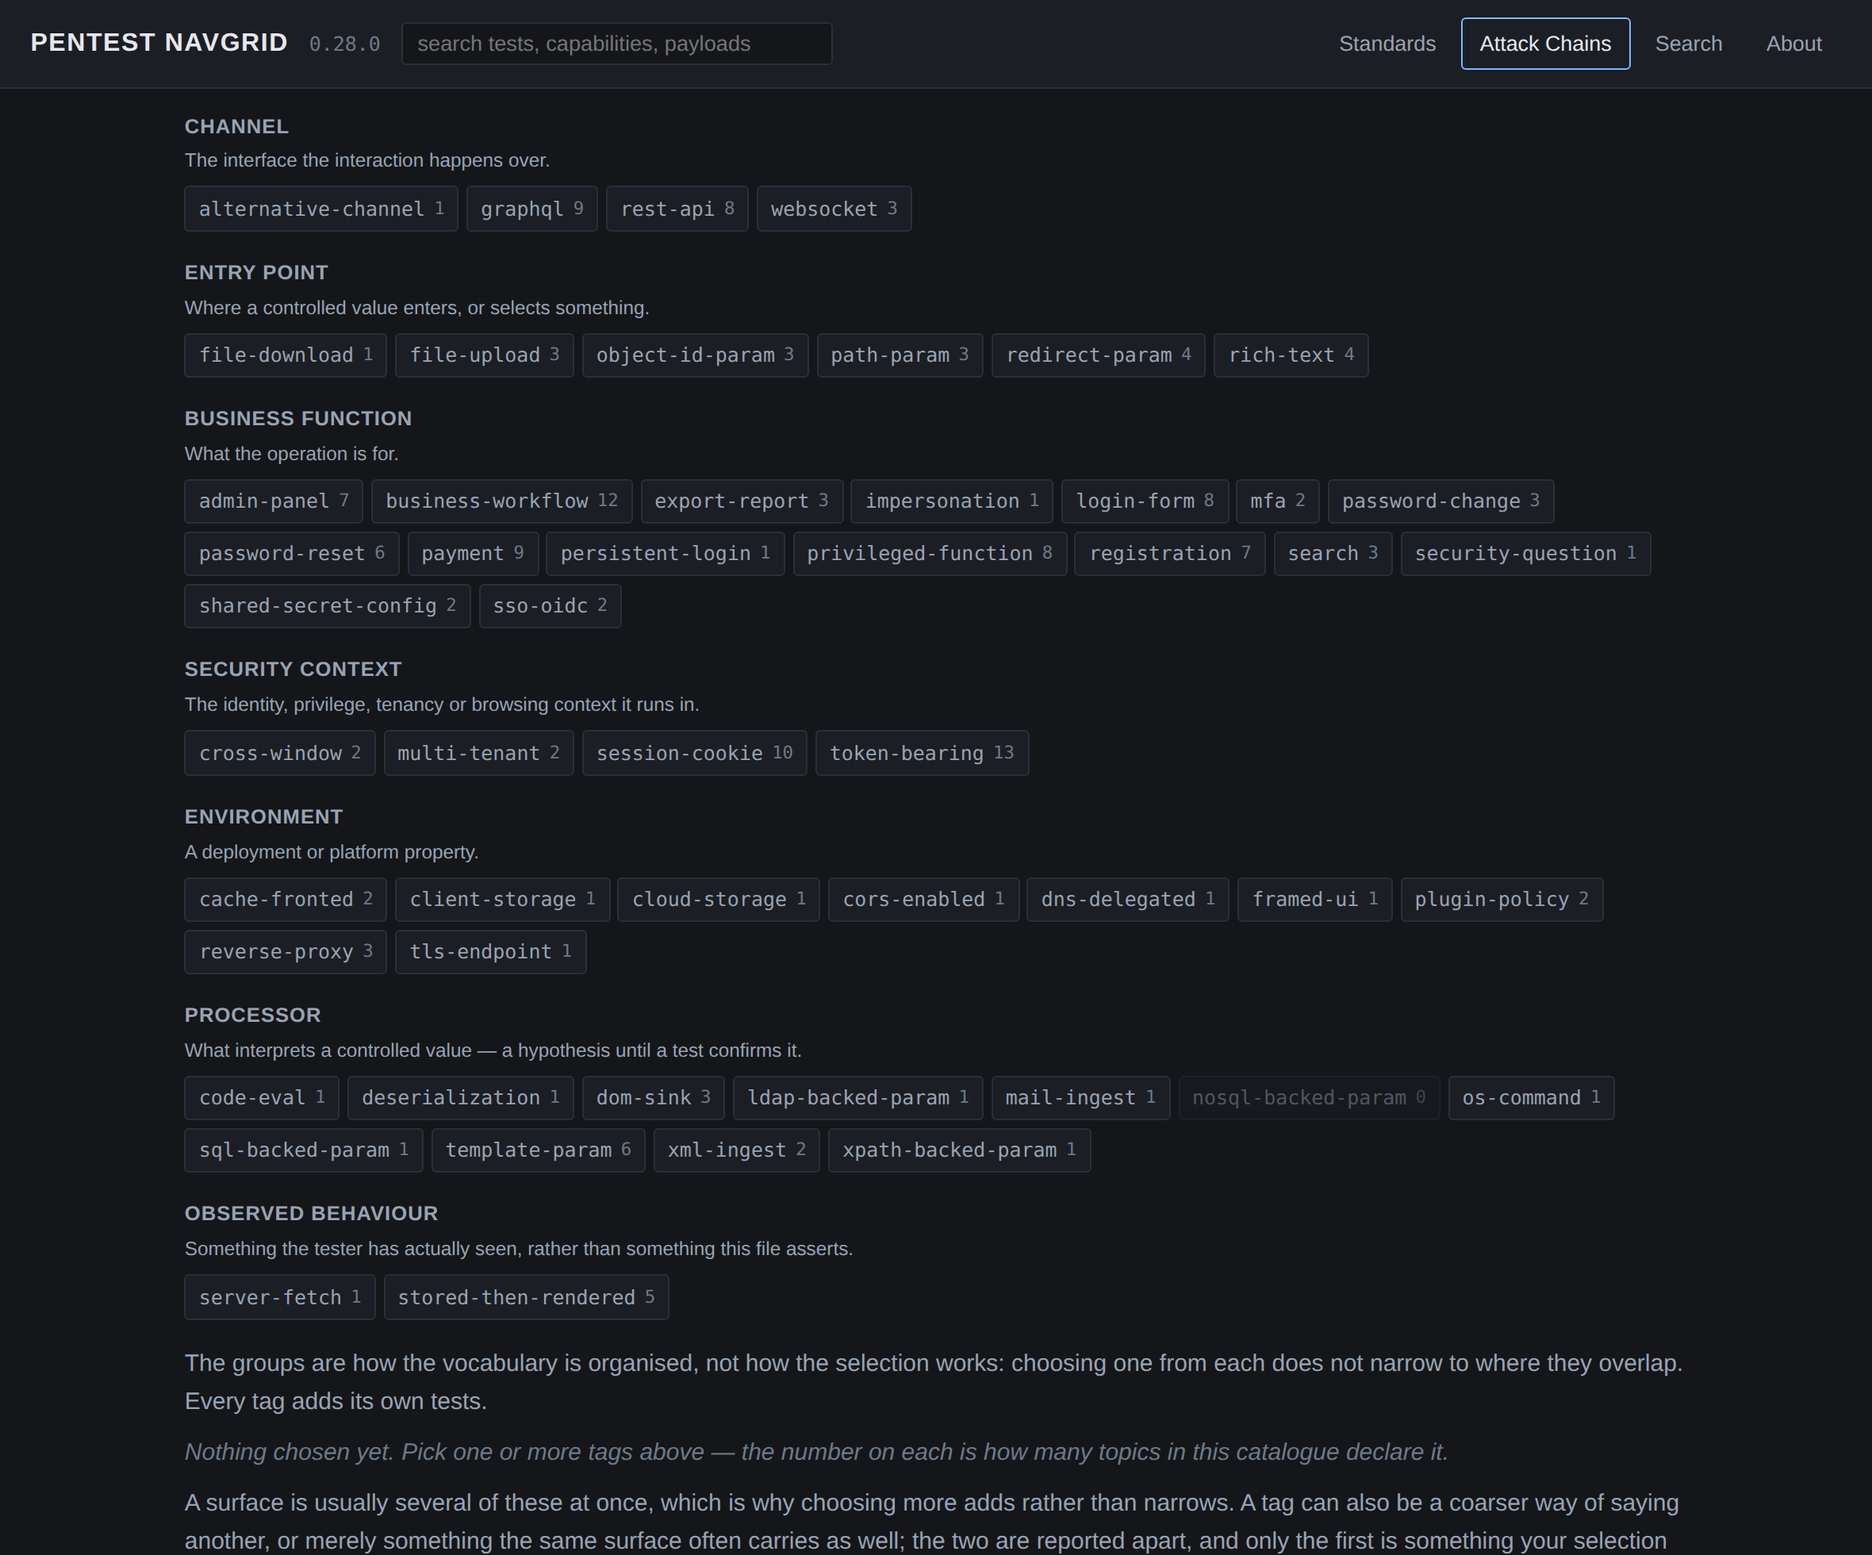
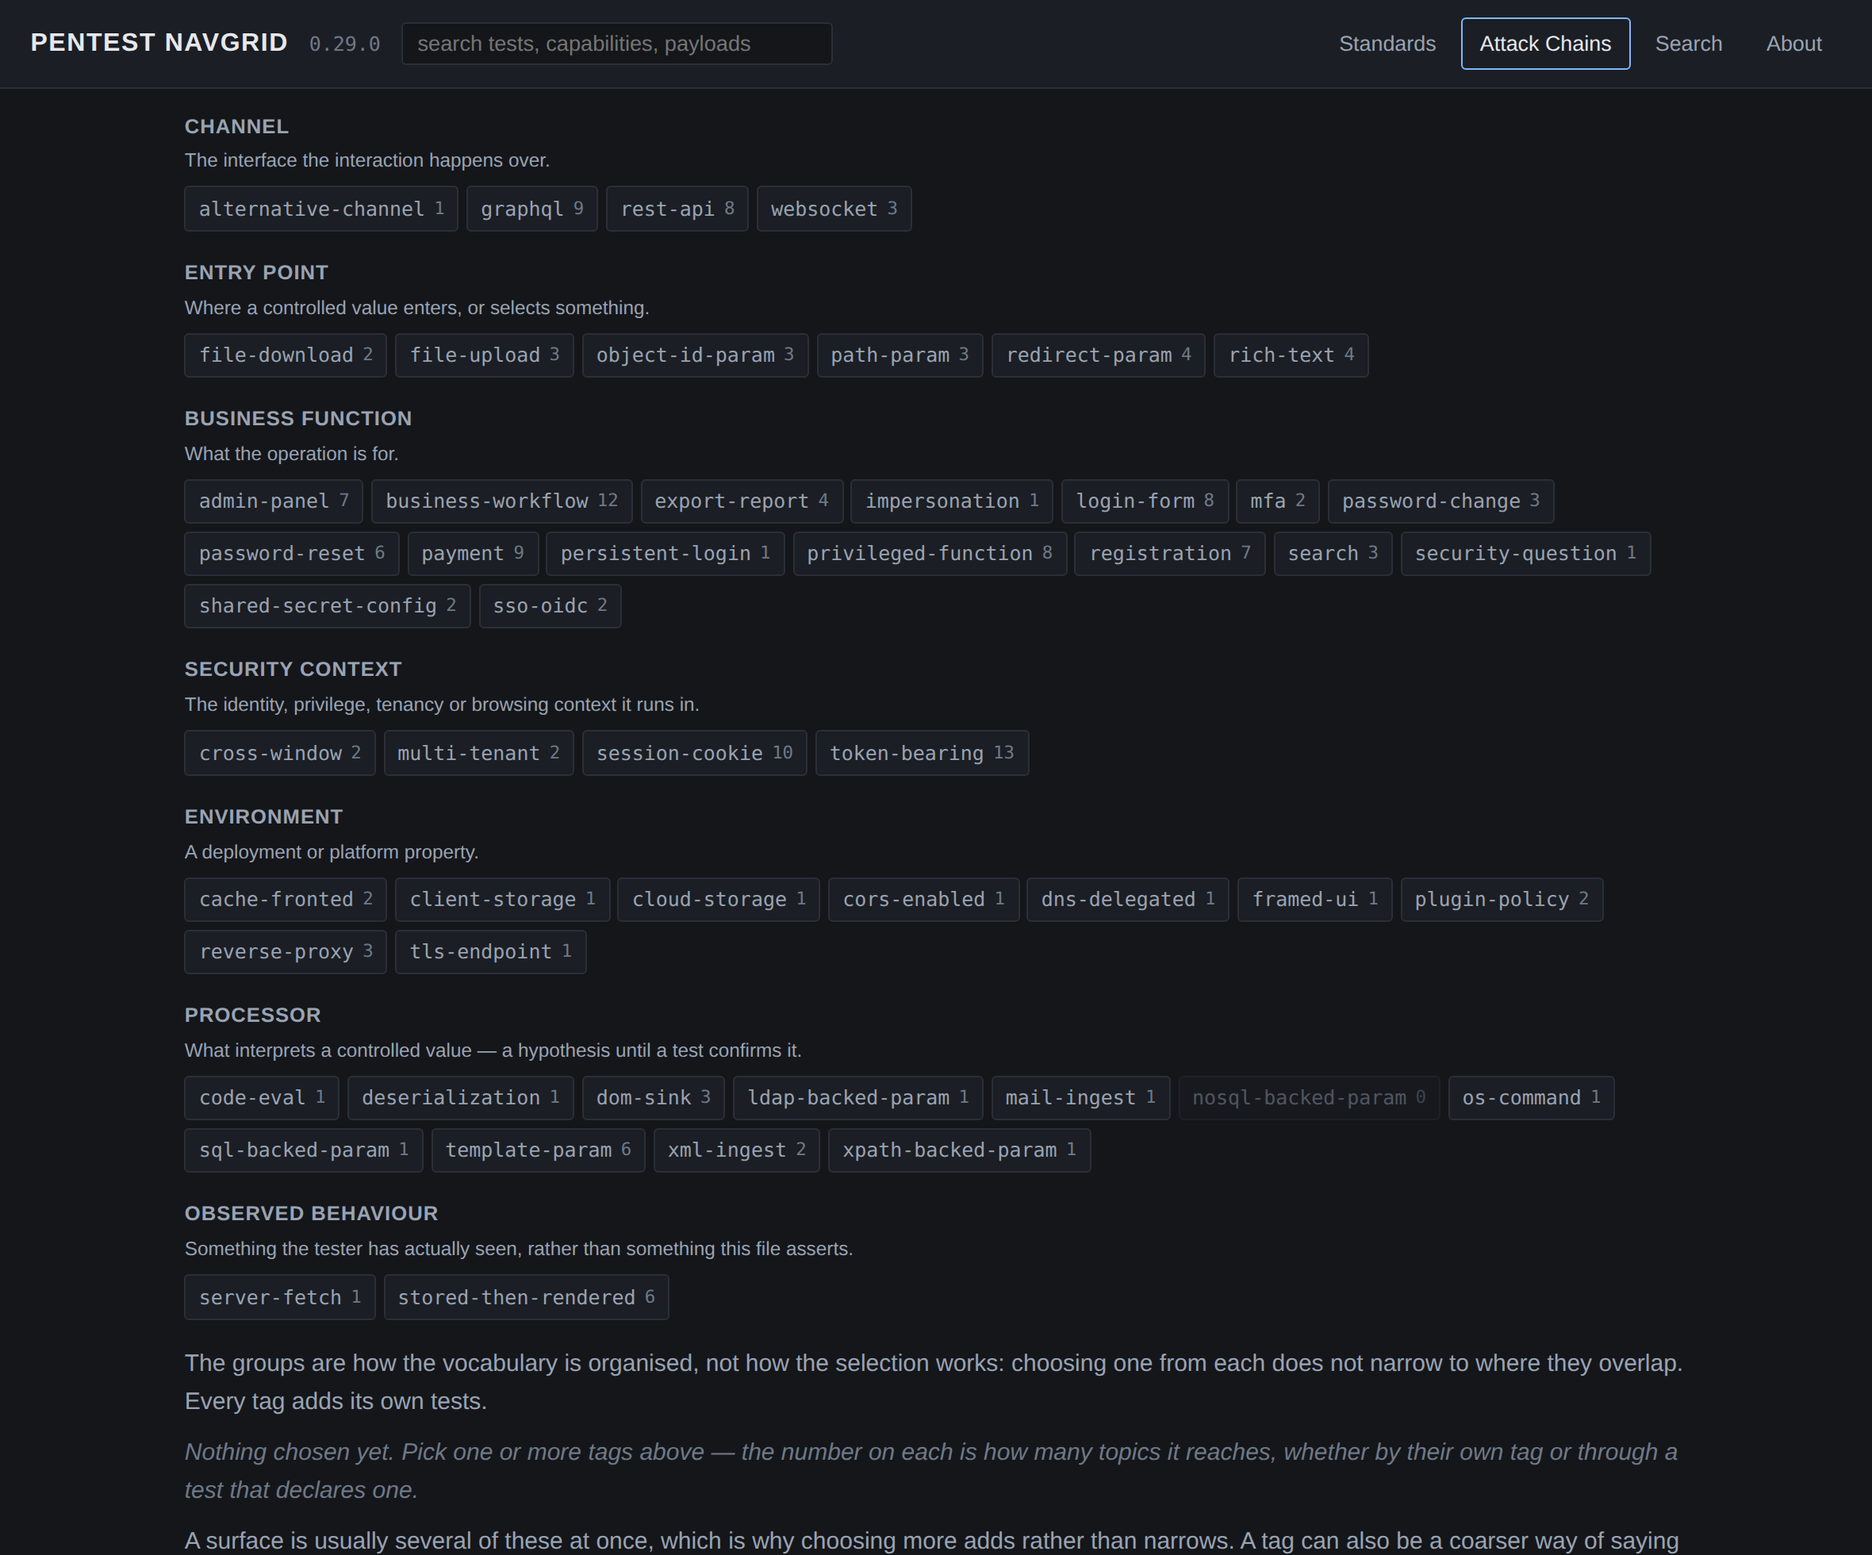
fix(discovery): say which route reached a topic, and refuse a clause the page ignores
Three labels went on describing the model this change replaced.

A heading read "N topics declare a tag you chose" over topics that
declare nothing of the sort: `PTN-CRY-02` is about assets in transit and
carries no `export-report`, and it is in that result because one test in
it is about a bulk export. Six topic-and-tag pairs are reached that way
today. The heading now says the selection reaches them, and a card whose
subject names none of the tags says so and names the route instead of
saying "the context is" about a surface only one of its tests claims.

The selector's count became a union in this same change and the sentence
beside it did not, so it went on calling a union a count of declarations
-- which `export-report`, `file-download` and `stored-then-rendered`
contradict on the page.

Two clause forms are now refused rather than silently ignored. The
schema's surface clause takes four forms because a topic uses two of
them; a unit clause replaces its topic's and is read as `any_of`, so
`all_of` and `none_of` would be accepted in the file and ignored where
they are used. And a clause under a topic whose own is `always` is
refused outright: a subject applying to every context has no surface for
a test to differ from, and the topic would be listed both as a specific
result and among the universal ones.

The labels were the last thing to catch up with the mechanism rather than
the first, for the third time in three changes. The tests added here
[…]

Changed region(s): [[0.0928, 0.9337, 0.897, 1.0]]

diff --git a/pentest_navgrid/artefact/app.js b/pentest_navgrid/artefact/app.js
@@ -1080,11 +1080,20 @@
       });
       if (!matched.length) return;
       var tags = Object.keys(via).sort();
+      /* Whether the topic's own clause is what reached it. A topic can now be
+         here because one of its tests declares a tag the subject does not --
+         `PTN-CRY-02` is about assets in transit and one test in it is about a
+         bulk export -- and a heading saying the topic declared the tag would be
+         stating something its file does not. */
+      var own_clause = (topic.surfaces || {}).any_of || [];
+      var byTopic = false;
+      own_clause.forEach(function (tag) { if (own(how, tag)) byTopic = true; });
       var weak = true;
       tags.forEach(function (tag) { if (how[tag] !== "often") weak = false; });
       rows[tid] = {
         topic: tid,
         via: tags.map(function (tag) { return { tag: tag, how: how[tag] }; }),
+        byTopic: byTopic,
         often: weak,
         matched: matched,
         broad: broad
@@ -2241,9 +2250,16 @@
       var found = chips(kind);
       return found ? '<div class="why">' + lead + " " + found + "</div>" : "";
     };
-    var why = line("chosen", "Matched because the context is:") +
-      line("always", "And always also is:") +
-      line("often", "Often carried by such a surface, and not implied by your selection:");
+    var why = row.byTopic
+      ? line("chosen", "Matched because the context is:") +
+        line("always", "And always also is:") +
+        line("often", "Often carried by such a surface, and not implied by your selection:")
+      /* Nothing on this topic names the tag; a test inside it does. Saying
+         "the context is" here would attribute to the subject a surface only
+         one of its tests claims. */
+      : '<div class="why">This topic declares none of these. Reached because a ' +
+        "test in it declares: " + chips("chosen") + chips("always") + chips("often") +
+        "</div>";
 
     var unitRow = function (uid, precise) {
       var unit = get(D.units, uid);
@@ -2341,7 +2357,8 @@
     if (!chosen.length) {
       return head +
         '<p class="empty">Nothing chosen yet. Pick one or more tags above — the number ' +
-        "on each is how many topics in this catalogue declare it.</p>" +
+        "on each is how many topics it reaches, whether by their own tag or " +
+        "through a test that declares one.</p>" +
         '<p class="muted">A surface is usually several of these at once, which is why ' +
         "choosing more adds rather than narrows. A tag can also be a coarser way of " +
         "saying another, or merely something the same surface often carries as well; " +
@@ -2388,9 +2405,11 @@
       : "";
 
     var body = reached +
+      /* "declare a tag you chose" was true while a tag could only be carried
+         by a topic. A topic reached because one of its tests declares one has
+         declared nothing, and the heading was saying it had. */
       "<h3>" + strong.length + " topic" + (strong.length === 1 ? "" : "s") +
-      (strong.length === 1 ? " declares" : " declare") +
-      " a tag you chose <span class=\"muted\">— " + counted(strong) +
+      " your selection reaches <span class=\"muted\">— " + counted(strong) +
       " tests</span></h3>";
 
     body += strong.length

diff --git a/tests/test_artefact_ui.py b/tests/test_artefact_ui.py
@@ -1703,6 +1703,34 @@ class ChoosingAContextSelectsTestsAndNothingElse(unittest.TestCase):
         """)
         self.assertEqual(out, [])
 
+    def test_a_topic_says_whether_its_own_tag_or_a_test_in_it_reached_it(self):
+        """A topic can be here because one of its tests declares a tag the
+        subject does not. Six pairs do that today, and a card telling the reader
+        the topic matched would be attributing to a subject a surface only one
+        of its tests claims."""
+        out = self.run_js("""
+            const out = [];
+            D.surfaces.forEach(function (s) {
+              H.contextTopics(D, [s.tag]).topics.forEach(function (r) {
+                if (!r.byTopic) out.push([s.tag, r.topic]);
+              });
+            });
+            return out;
+        """)
+        self.assertIn(["export-report", "PTN-CRY-02"], out)
+        # And the flag is the topic's own clause, not a guess from the units.
+        for tag, tid in out:
+            with self.subTest(tag=tag, topic=tid):
+                self.assertNotIn(tag, self.data["topics"][tid]["surfaces"]["any_of"])
+
+    def test_a_topic_whose_own_tag_matched_says_so(self):
+        out = self.run_js("""
+            return H.contextTopics(D, ["multi-tenant"]).topics.map(function (r) {
+              return [r.topic, r.byTopic];
+            });
+        """)
+        self.assertIn(["PTN-ACL-02", True], out)
+
     def test_a_topic_is_listed_once_even_when_two_tags_reach_it(self):
         out = self.run_js("""
             const seen = {}, dup = [];
@@ -2679,6 +2707,41 @@ class TheBuiltFileWorksInABrowser(unittest.TestCase):
         self.assertEqual(bad, [])
         # A selector that stopped matching would make this pass by reading none.
         self.assertGreater(read, 20, "no reason lines were examined at all")
+
+    def test_no_label_says_a_topic_declared_a_tag_it_does_not(self):
+        """The wording this round removed, swept over every tag rather than the
+        one that showed it. `export-report` reaches `PTN-CRY-02` because a test
+        in it is about a bulk export; the subject is about assets in transit and
+        declares no such tag, and the page used to head that result "topics
+        declare a tag you chose"."""
+        checked = 0
+        for surface in self.data["surfaces"]:
+            if not surface["units"]:
+                continue
+            text = self.text("#/chains/context/" + surface["tag"]).lower()
+            checked += 1
+            with self.subTest(tag=surface["tag"]):
+                self.assertNotIn("declare a tag you chose", text)
+                self.assertNotIn("declares a tag you chose", text)
+                self.assertIn("your selection reaches", text)
+        self.assertGreater(checked, 5, "no tag with a unit-level declaration was read")
+
+    def test_a_card_reached_only_through_a_test_says_which_route(self):
+        page = self.open("#/chains/context/export-report")
+        card = page.locator('.card:has-text("Sensitive data over unprotected transport")').first
+        text = " ".join(card.inner_text().split())
+        self.assertIn("This topic declares none of these", text)
+        self.assertIn("Reached because a test in it declares", text)
+        self.assertNotIn("Matched because the context is", text)
+
+    def test_the_selector_no_longer_calls_its_count_a_declaration(self):
+        """The count became a union in this same change and the sentence beside
+        it did not: three tags show a number larger than the topics declaring
+        them."""
+        text = self.text("#/chains/context")
+        self.assertNotIn("how many topics in this catalogue declare it", text)
+        self.assertShows(text, "how many topics it reaches")
+        self.assertShows(text, "through a test that declares one")
 
     def test_an_association_is_never_printed_as_something_that_follows(self):
         """The sentence this change exists to remove. It said an edge was "true

diff --git a/tests/test_vocabularies_and_standards.py b/tests/test_vocabularies_and_standards.py
@@ -7,7 +7,7 @@ later as many failures with no obvious common cause.
 import unittest
 
 from pentest_navgrid.validate import validate
-from tests.support import messages
+from tests.support import Sandbox, messages
 from tests.test_identifiers_and_axes import SandboxCase
 
 
@@ -291,6 +291,49 @@ class AParentClaimsMoreThanAnAssociation(SandboxCase):
             (s["tag"], t) for s in surfaces for t in (s.get("parents") or [])
         }
         self.assertEqual(parents, {("graphql", "rest-api")})
+
+
+class AUnitSurfaceMustBeAFormThePageReads(SandboxCase):
+    """The schema's surface clause takes four forms because a topic uses two of
+    them. A unit clause replaces its topic's and the page reads it as `any_of`,
+    so the other forms would be accepted in the file and ignored where they are
+    used -- a declaration that silently does nothing, which is the failure the
+    mapping exists to remove, moved into the mapping itself.
+    """
+
+    def test_a_form_the_page_does_not_read_is_rejected(self):
+        for form in ("all_of", "none_of"):
+            with self.subTest(form=form):
+                box = Sandbox()
+                self.addCleanup(box.close)
+                def narrow(data, form=form):
+                    data["surfaces"] = {form: ["file-upload"]}
+                box.edit("knowledge/res/PTN-RES-02-PROBE.unit.yaml", narrow)
+                problems = validate(box.root)
+                self.assertIn(f"surfaces.{form} on a unit", messages(problems))
+
+    def test_a_surface_under_a_universal_topic_is_rejected(self):
+        """A subject that applies to every context has no surface for a test to
+        differ from, and the build would list it both as a specific result and
+        among the universal ones."""
+        def declare(data):
+            data["surfaces"] = {"any_of": ["tls-endpoint"]}
+        self.box.edit("knowledge/cfg/PTN-CFG-01-MAP.unit.yaml", declare)
+        self.assertRejected("which applies to every context")
+
+    def test_no_unit_in_the_catalogue_sits_under_a_universal_topic(self):
+        """Asserted of the catalogue, not only of the gate."""
+        universal = {
+            d["id"] for d in
+            [self.box.read(str(p.relative_to(self.box.root)))
+             for p in self.box.root.glob("knowledge/*/*.topic.yaml")]
+            if (d.get("surfaces") or {}).get("always")
+        }
+        for path in self.box.root.glob("knowledge/*/*.unit.yaml"):
+            unit = self.box.read(str(path.relative_to(self.box.root)))
+            if unit.get("surfaces"):
+                with self.subTest(unit=unit["id"]):
+                    self.assertNotIn(unit["topic"], universal)
 
 
 class SearchAliasesMustEarnTheirPlace(SandboxCase):

diff --git a/pentest_navgrid/validate.py b/pentest_navgrid/validate.py
@@ -632,10 +632,8 @@ def _check_unit_surfaces(
         if topic is None:
             continue  # already reported as a unit naming an unknown topic
         clause = topic.data.get("surfaces") or {}
-        if clause.get("always"):
-            declared = None
-        else:
-            declared = set(clause.get("any_of") or [])
+        universal = bool(clause.get("always"))
+        declared = None if universal else set(clause.get("any_of") or [])
 
         carried: Set[str] = set()
         with_clause = 0
@@ -649,6 +647,27 @@ def _check_unit_surfaces(
                     doc.rel,
                     "surfaces.always on a unit -- whether a subject applies "
                     "regardless of the surface is decided once, by its topic",
+                )
+                continue
+            # The page reads one clause form, so one is what may be written. A
+            # form the schema accepts and the page ignores is a declaration that
+            # silently does nothing -- the unit would inherit its topic while
+            # its file says otherwise, which is the failure this whole mapping
+            # exists to remove, moved into the mapping itself.
+            for form in sorted(set(own) - {"any_of"}):
+                problems.add(
+                    doc.rel,
+                    f"surfaces.{form} on a unit -- a unit clause replaces its "
+                    f"topic's and is read as any_of; another form would be "
+                    f"accepted here and ignored where it is used",
+                )
+            if universal:
+                problems.add(
+                    doc.rel,
+                    f"declares a surface under {tid}, which applies to every "
+                    f"context -- a subject with no surface has none for a unit "
+                    f"to differ from, and the topic would be listed both as a "
+                    f"specific result and among the universal ones",
                 )
                 continue
             mine = set(own.get("any_of") or [])

diff --git a/docs/ROADMAP.md b/docs/ROADMAP.md
@@ -393,6 +393,16 @@ than from the topics down -- asked from the topic's clause alone, the mapping
 would have been written, validated, and unreachable, which is the failure this
 release is about repeated one level up.
 
+It also made three labels false, and the labels were the last thing to catch up
+with the mechanism rather than the first. A heading read "N topics declare a
+tag you chose" over topics that declare nothing of the sort; a card said "the
+context is" about a surface only one of the topic's tests claims; and the
+selector's per-tag count became a union in this same change while the sentence
+beside it went on calling it a count of declarations, which three tags now
+contradict on the page. Six topic-and-tag pairs are reached this way today. The
+heading says what it means, the card says which route reached it, and a test
+sweeps every tag rather than the one that showed the fault.
+
 19 tests across 5 topics carry a clause. The rest of the catalogue is still
 answered for by its topics, and what makes mapping a topic a few tests at a
 time safe is that a clause is written only where it differs: the tests without

diff --git a/docs/AUTHORING.md b/docs/AUTHORING.md
@@ -411,8 +411,18 @@ own tests has just said it does not have. Until then the ones without a clause
 inherit the whole list, so nothing is lost by mapping a topic a few units at a
 time.
 
-`always` on a unit is rejected. Whether a subject applies regardless of surface
-is decided once, by the topic.
+Three forms are rejected, and each for the same reason: a declaration the page
+does not read is one that silently does nothing while the file says otherwise.
+
+- **`always` on a unit.** Whether a subject applies regardless of surface is
+  decided once, by the topic.
+- **`all_of` or `none_of` on a unit.** The clause replaces its topic's and is
+  read as `any_of`. The schema takes four forms because a topic uses two of
+  them; a unit uses one.
+- **Any clause under a topic whose own clause is `always`.** A subject that
+  applies to every context has no surface for a test to differ from, and the
+  topic would be listed both as a specific result and among the universal ones.
+  If a test under such a topic needs a surface, the topic is not universal.
 
 ## 6. Volatile content carries a date
 

diff --git a/README.md b/README.md
@@ -135,7 +135,7 @@ group says what choosing from it means — a processor is a hypothesis until a
 test confirms it, and an observed behaviour is something the tester has seen
 rather than something this file asserts:
 
-![The attack-surface vocabulary in seven groups — channel, entry point, business function, security context, environment, processor, observed behaviour — each with what it names and how many topics declare each tag](docs/assets/context-selector.png)
+![The attack-surface vocabulary in seven groups — channel, entry point, business function, security context, environment, processor, observed behaviour — each with what it names and how many topics each tag reaches](docs/assets/context-selector.png)
 
 The groups organise the vocabulary; they do not change what a selection does.
 Choosing one from each does not narrow to where they overlap — every tag adds
